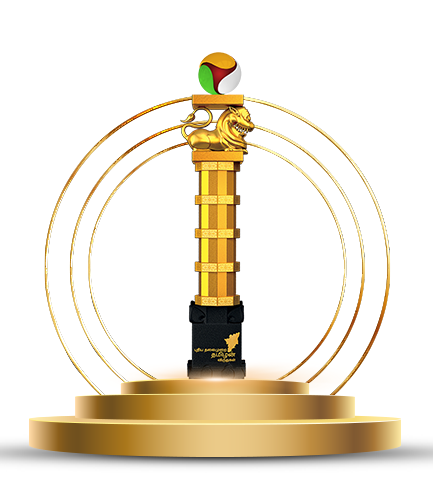
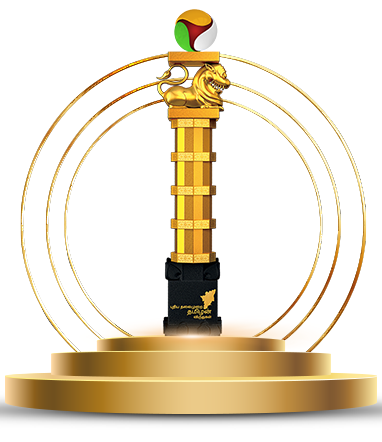
Final Commit

diff --git a/index.html b/index.html
@@ -93,7 +93,10 @@
 			<div class="ori-slider-wrap-1">
 				<div class="ori-slider-content-1 position-relative">
 					<div class="ori-slider-text text-center  text-uppercase">
-						<div class="ori-slider-img">
+						<div class="ori-slider-img content-desktop">
+							<img src="./img/Banner-Award.png" alt="">
+						</div>
+						<div class="ori-slider-img content-mobile">
 							<img src="./img/Banner-Award-Croped.png" alt="">
 						</div>
 						<h4 style="line-height: 1.5;" class="mb-lg-3 mb-0">
@@ -426,7 +429,7 @@
 				</div>
 			</div>
 		</div>
-		<div class="container mb-lg-5 mb-4">
+		<div class="container ori-sponsor-content-3">
 			<div class="ori-sponsor-title text-uppercase text-center">
 				<h3><i></i> <span>Associate Sponsors</span> <i></i> </h3>
 			</div>

diff --git a/assets/css/style.css b/assets/css/style.css
@@ -281,6 +281,9 @@ select:visited {
 .slick-dotted.slick-slider {
   margin-bottom: 0;
 }
+.ori-sponsor-content-3{
+  padding-bottom: 80px;
+}
 
 .cursor {
   border-radius: 50%;
@@ -10529,7 +10532,10 @@ Font load
 .ori-impre-feature-item .inner-text h3 {
     font-size: 20PX;
   }
-
+  .ori-sponsor-content-3{
+    padding-bottom: 40px;
+  }
+  
   .ori-theme-feature-item {
     margin-bottom: 40px;
   }
@@ -12139,7 +12145,7 @@ Font load
   }
 
   .ori-slider-content-1 {
-    padding: 170px 0px 150px;
+    padding: 100px 0px 100px;
   }
 
   .ori-project-item-4 {
